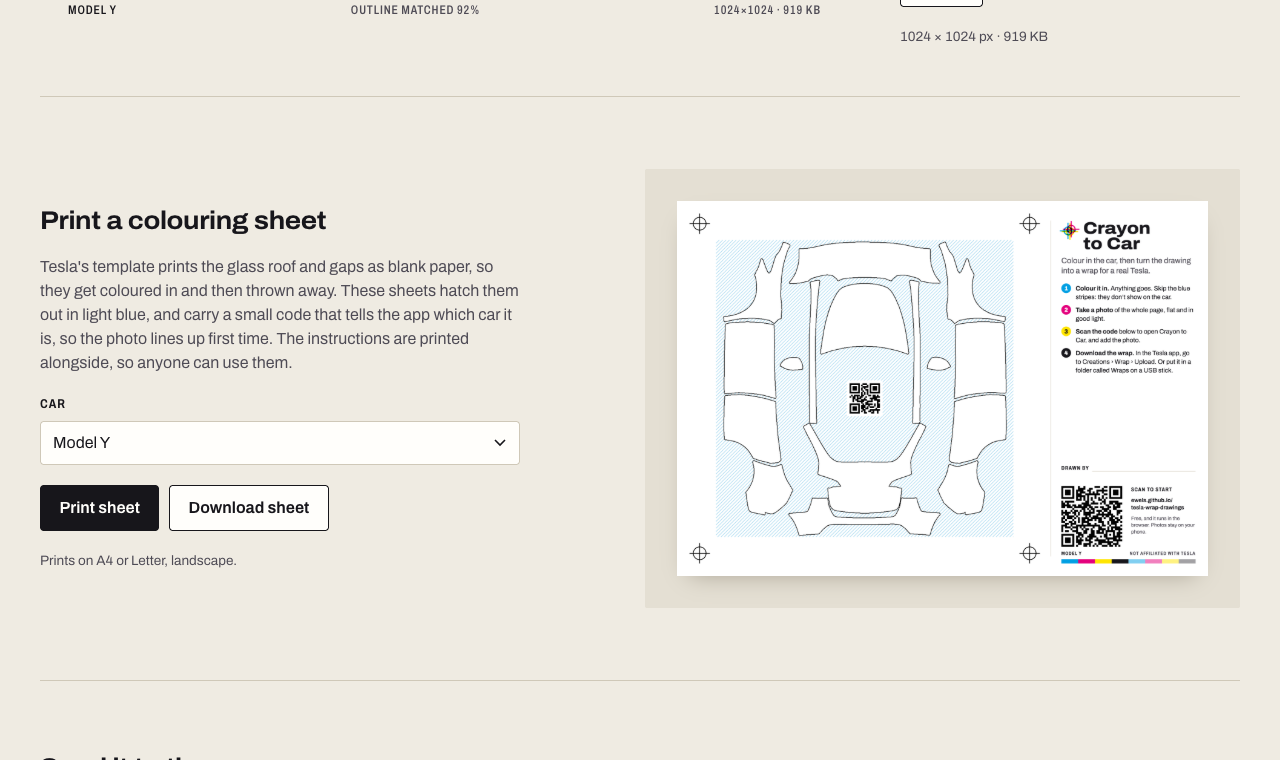
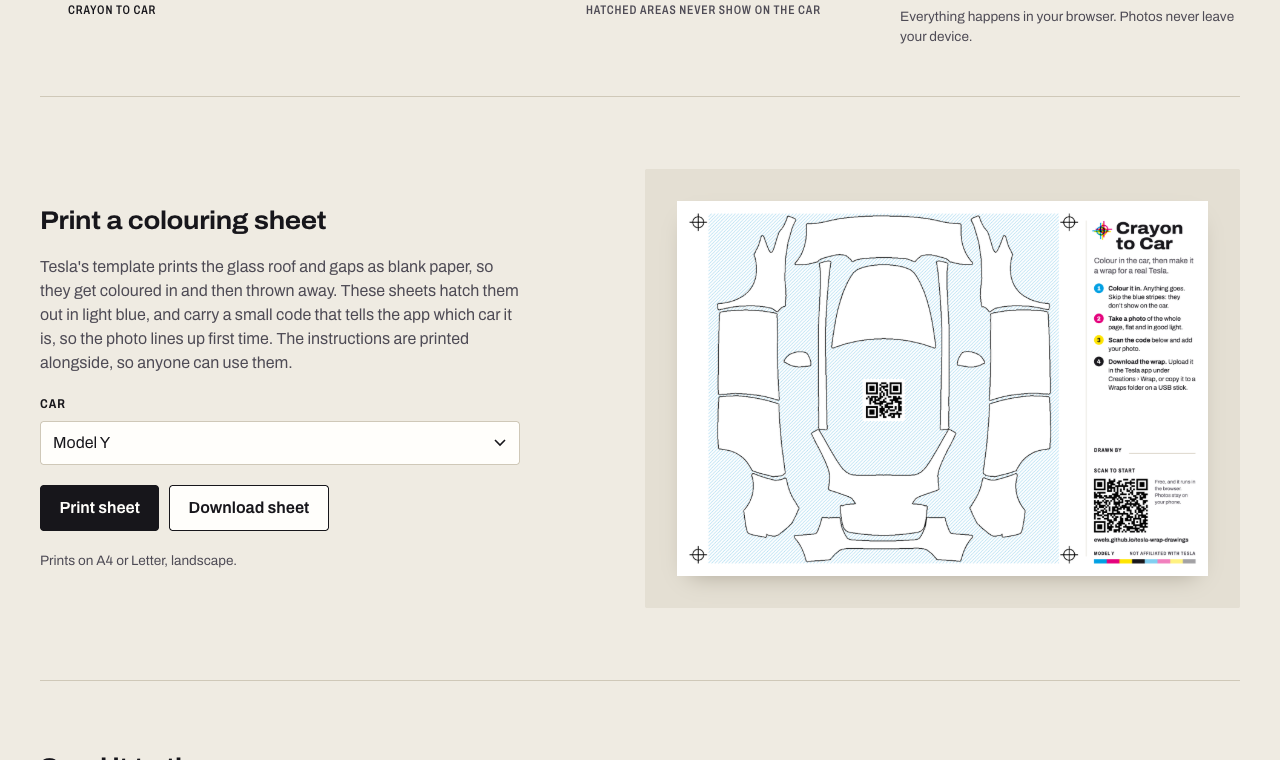
Fill the page height: marks beside the drawing; Model Y sheet in README

diff --git a/app.js b/app.js
@@ -331,7 +331,7 @@ async function makeSheet(id) {
 
   // Instructions column.
   ctx.fillStyle = C.rule;
-  ctx.fillRect(x0 - 6 * MM, m + 4 * MM, 0.25 * MM, H - 2 * m - 8 * MM);
+  ctx.fillRect(x0 - 4.5 * MM, m + 4 * MM, 0.25 * MM, H - 2 * m - 8 * MM);
 
   let y = m + 4 * MM;
   ctx.save();
@@ -348,14 +348,14 @@ async function makeSheet(id) {
   ctx.fillText('to Car', x0 + 2 * tr + 3 * MM, y + 1.7 * ws);
   y += 2 * ws + 5 * MM;
 
-  y = paragraph(ctx, [['Colour in the car, then turn the drawing into a wrap for a real Tesla.', 400]], x0, y, cw, 4.3 * MM, C.ink2, 1.32);
+  y = paragraph(ctx, [['Colour in the car, then make it a wrap for a real Tesla.', 400]], x0, y, cw, 4.3 * MM, C.ink2, 1.32);
   y += 4 * MM;
 
   const steps = [
     [C.cyan, '#fff', 'Colour it in. ', 'Anything goes. Skip the blue stripes: they don’t show on the car.'],
     [C.magenta, '#fff', 'Take a photo ', 'of the whole page, flat and in good light.'],
-    [C.yellow, C.ink, 'Scan the code ', 'below to open Crayon to Car, and add the photo.'],
-    [C.ink, '#fff', 'Download the wrap. ', 'In the Tesla app, go to Creations › Wrap › Upload. Or put it in a folder called Wraps on a USB stick.'],
+    [C.yellow, C.ink, 'Scan the code ', 'below and add your photo.'],
+    [C.ink, '#fff', 'Download the wrap. ', 'Upload it in the Tesla app under Creations › Wrap, or copy it to a Wraps folder on a USB stick.'],
   ];
   const ts = 3.55 * MM, dr = 2.7 * MM, indent = 2 * dr + 2.6 * MM;
   steps.forEach(([bg, fg, lead, rest], i) => {
@@ -368,26 +368,25 @@ async function makeSheet(id) {
     y = paragraph(ctx, [[lead, 650], [rest, 400]], x0 + indent, y, cw - indent, ts, C.ink, 1.36) + 2.4 * MM;
   });
 
-  // Website code, anchored to the bottom of the column, with a line to sign above it.
+  // Website code near the bottom, with a line to sign above it.
   const { y: qy, size: qs } = site;
-  const sy = qy - 9 * MM;
-  font(ctx, 3.1 * MM, 650, 'condensed');
-  ctx.fillStyle = C.ink;
-  ctx.letterSpacing = `${0.3 * MM}px`;
-  ctx.fillText('DRAWN BY', x0, sy);
-  ctx.letterSpacing = '0px';
-  const sx = x0 + ctx.measureText('DRAWN BY').width + 4 * MM;
+  const caps = (text, x, y) => {
+    font(ctx, 3.1 * MM, 650, 'condensed');
+    ctx.fillStyle = C.ink;
+    ctx.letterSpacing = `${0.3 * MM}px`;
+    ctx.fillText(text, x, y);
+    const w = ctx.measureText(text).width;
+    ctx.letterSpacing = '0px';
+    return w;
+  };
+  const sy = qy - 15 * MM;
+  const sx = x0 + caps('DRAWN BY', x0, sy) + 4 * MM;
   ctx.fillStyle = C.rule;
   ctx.fillRect(sx, sy + 0.6 * MM, x0 + cw - sx, 0.3 * MM);
+  caps('SCAN TO START', x0, qy - 3.6 * MM);
   drawQR(ctx, encode, `${SITE}?car=${id}`, x0, qy, qs, 'M');
-  const lx = x0 + qs + 5 * MM, lw = cw - qs - 5 * MM;
-  font(ctx, 3.1 * MM, 650, 'condensed');
-  ctx.fillStyle = C.ink;
-  ctx.letterSpacing = `${0.3 * MM}px`;
-  ctx.fillText('SCAN TO START', lx, qy + 3 * MM);
-  ctx.letterSpacing = '0px';
-  let ly = paragraph(ctx, [['ewels.github.io/ tesla-wrap-drawings', 650]], lx, qy + 9 * MM, lw, 3.1 * MM, C.ink, 1.3);
-  paragraph(ctx, [['Free, and it runs in the browser. Photos stay on your phone.', 400]], lx, ly + 2 * MM, lw, 2.8 * MM, C.ink2, 1.35);
+  paragraph(ctx, [['Free, and it runs in the browser. Photos stay on your phone.', 400]], x0 + qs + 4 * MM, qy + 2.6 * MM, cw - qs - 4 * MM, 2.8 * MM, C.ink2, 1.35);
+  paragraph(ctx, [['ewels.github.io/tesla-wrap-drawings', 650]], x0, qy + qs + 5.2 * MM, cw, 3.1 * MM, C.ink, 1.3);
 
   // Footer: car, sheet code, and the site's colour bar.
   const fy = H - m - barH - 2.4 * MM;

diff --git a/align.js b/align.js
@@ -144,12 +144,13 @@ function sampleD(D, w, h, x, y) {
 
 export const isTemplateLine = (data, i) => data[i * 4 + 3] > 128 && data[i * 4] + data[i * 4 + 1] + data[i * 4 + 2] < 384;
 
-// Registration marks on printed sheets sit this far outside the template frame.
-export const MARK_OFFSET = 56, MARK_R = 22;
+// Registration marks sit just left and right of the template, level with its
+// top and bottom edges, so they cost the drawing no height on the page.
+export const MARK_OFFSET = 30, MARK_R = 16;
 
 export function markCentres(tw, th) {
-  const o = MARK_OFFSET;
-  return [[-o, -o], [tw + o, -o], [tw + o, th + o], [-o, th + o]];
+  const o = MARK_OFFSET, a = MARK_R * 1.6;
+  return [[-o, a], [tw + o, a], [tw + o, th - a], [-o, th - a]];
 }
 
 // Printed sheets carry a small QR code naming the car, placed in the largest
@@ -181,9 +182,9 @@ export const MM = 300 / 25.4;
 export function sheetLayout(tw, th) {
   const W = Math.round(297 * MM), H = Math.round(210 * MM), m = 7 * MM;
   const E = MARK_OFFSET + MARK_R * 1.6, box = H - 2 * m;
-  const s = Math.min(box / (tw + 2 * E), box / (th + 2 * E));
-  const x0 = m + (tw + 2 * E) * s + 12 * MM, barH = 2.4 * MM, qs = 34 * MM;
-  return { W, H, m, s, ox: m + E * s, oy: (H - th * s) / 2, x0, cw: W - m - x0, barH, site: { x: x0, y: H - m - barH - 7 * MM - qs, size: qs } };
+  const s = box / Math.max(tw, th);
+  const x0 = m + (tw + 2 * E) * s + 9 * MM, barH = 2.4 * MM, qs = 30 * MM;
+  return { W, H, m, s, ox: m + E * s, oy: (H - th * s) / 2, x0, cw: W - m - x0, barH, site: { x: x0, y: H - m - barH - 15 * MM - qs, size: qs } };
 }
 
 function markPoints(tw, th) {

diff --git a/README.md b/README.md
@@ -29,6 +29,8 @@ Everything runs in the browser. Photos never leave the device.
   </tr>
 </table>
 
+<p align="center"><img src="docs/sheet-model-y.png" alt="The Model Y colouring sheet: A4 landscape, the template on the left with off-car areas hatched in blue and a small QR code in the glass roof, and instructions with a QR code to the site on the right" width="800"><br><sub>The Model Y colouring sheet (A4 landscape)</sub></p>
+
 ## How the alignment works
 
 - Thin, dark, colourless strokes (the printed outline) are picked out with a black-hat filter, so marker fills and coloured scribbles are ignored.
